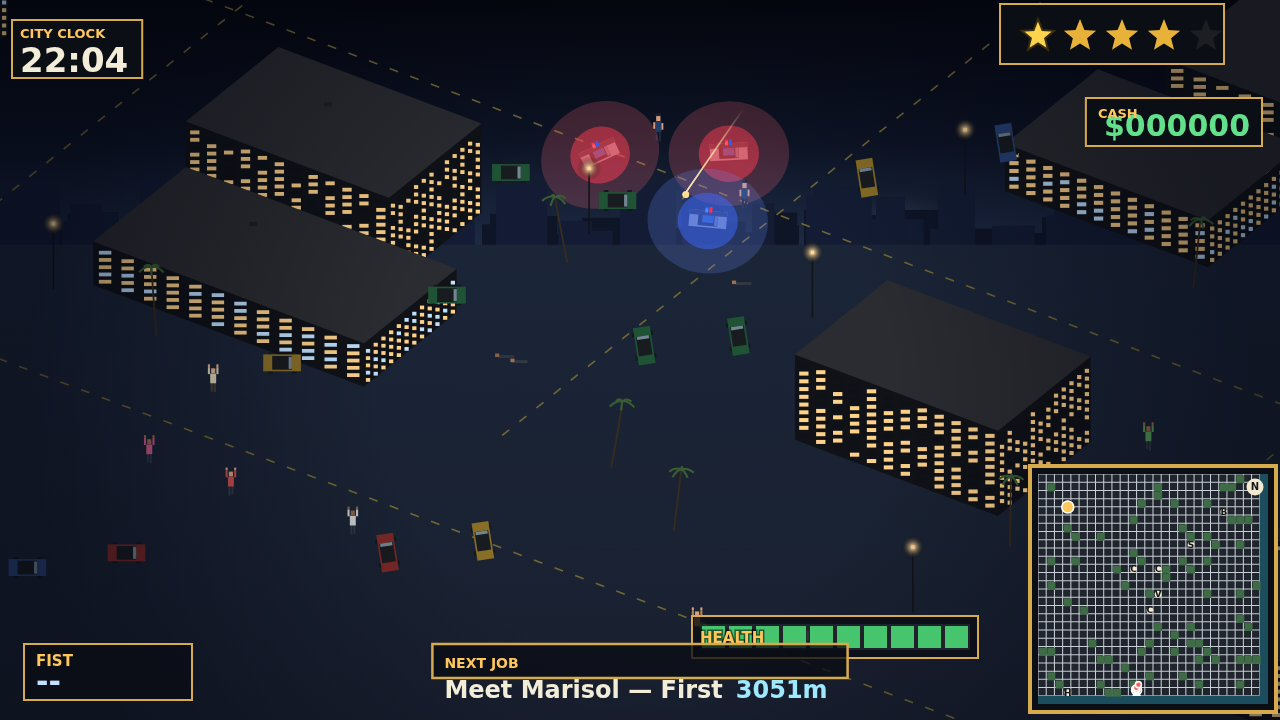
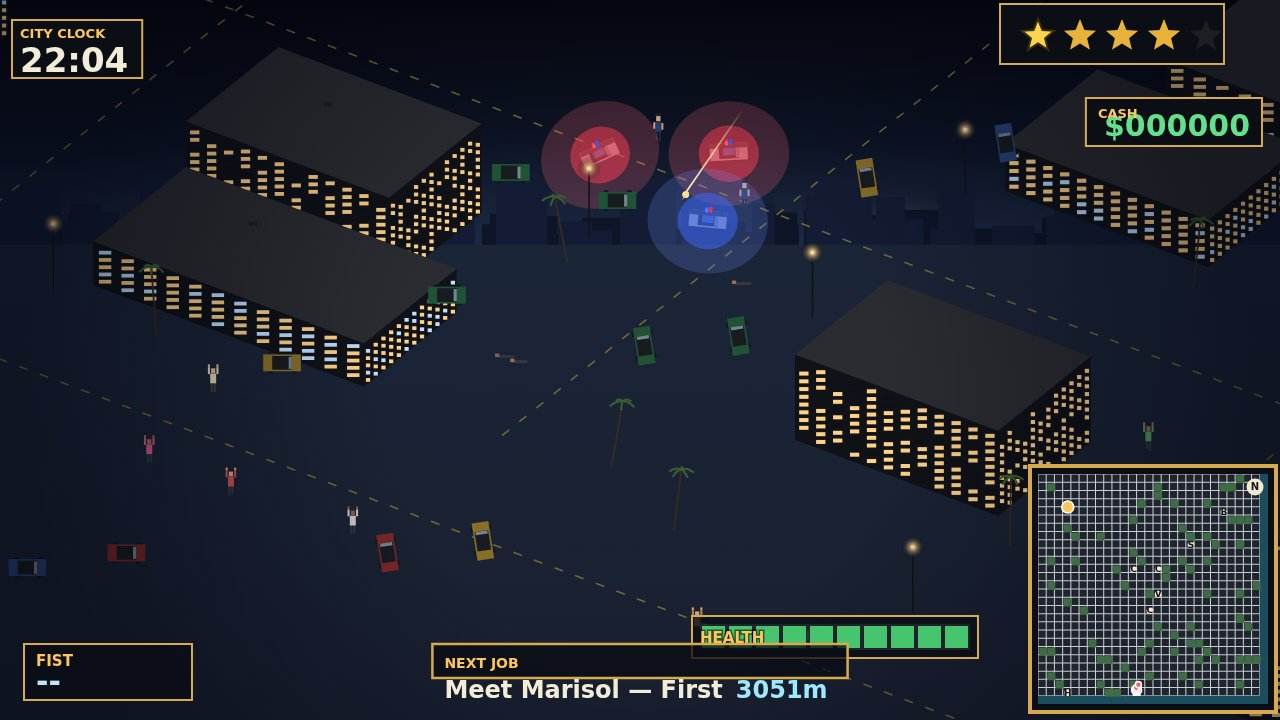
Four staged screenshots of Calvera Bay

diff --git a/game/src/staging.js b/game/src/staging.js
@@ -75,10 +75,10 @@ export function stageShot(name, game) {
     placed.traffic = trafficQueue(game, name === 'driving' ? 9 : 7);
   }
   if (name === 'cover') {
-    // ladder the fleet across the boulevard: three bars at three depths and two sides,
-    // so the frozen frame shows red AND blue strobes clearly separated on the street
+    // ladder the fleet across the boulevard: the near pair flanks the hero (left red,
+    // right blue, both in open street), the third sits deeper mid-frame as a third light
     placed.cruisers.push(cruiserChasing(game, placed.heroCar, 42, -34));
-    placed.cruisers.push(cruiserChasing(game, placed.heroCar, 76, 16));
+    placed.cruisers.push(cruiserChasing(game, placed.heroCar, 16, 34));
     placed.cruisers.push(cruiserChasing(game, placed.heroCar, 112, -14));
     game.setWantedStars(3);
     game.lightStrobes(placed.cruisers);
@@ -102,6 +102,22 @@ export function stageShot(name, game) {
 
   // ---- settle exactly 60 fixed ticks (physics, queueing, peds walking toward their marks)
   for (let i = 0; i < 60; i += 1) game.shotTick();
+
+  // The settle can nudge free-rolling cruisers a few tiles, and the cover frame is
+  // composed screen-space: re-place the fleet after it so BOTH near cruisers sit in
+  // open street flanking the hero — blue on the left, red on the right — and neither
+  // hides behind the podium's roof quad. The deep third cruiser adds a second left light.
+  if (name === 'cover' && placed.heroCar) {
+    const h = placed.heroCar, hx = Math.sin(h.heading), hz = Math.cos(h.heading);
+    const pins = [[16, 34], [14, -36], [-40, -36]];
+    placed.cruisers.forEach((c, i) => {
+      const pin = pins[i] || pins[0];
+      c.x = h.x - hx * pin[0] + hz * pin[1];
+      c.z = h.z - hz * pin[0] - hx * pin[1];
+      c.heading = h.heading;
+      c.vx = 0; c.vz = 0;
+    });
+  }
 
   // the mission shot just began its FIRST chapter, so the live objective points across
   // town at the docks. For the frame the judge sees, the amber ring belongs at the
